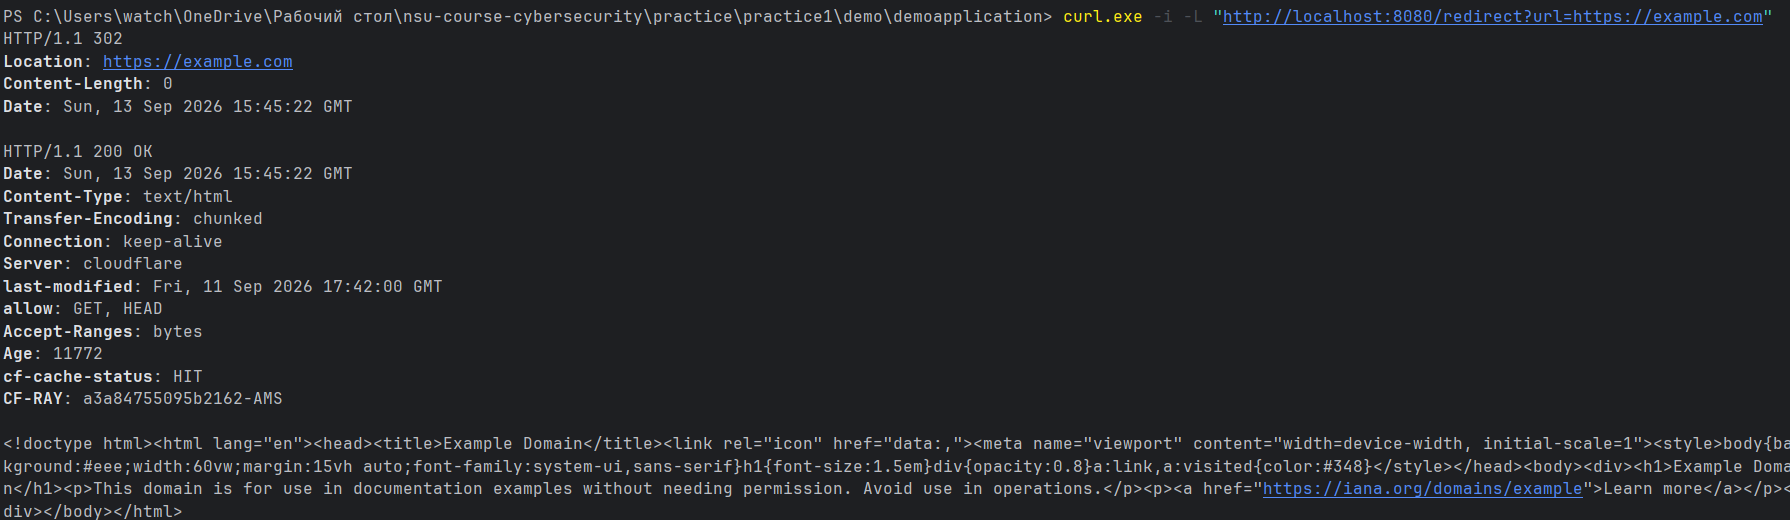
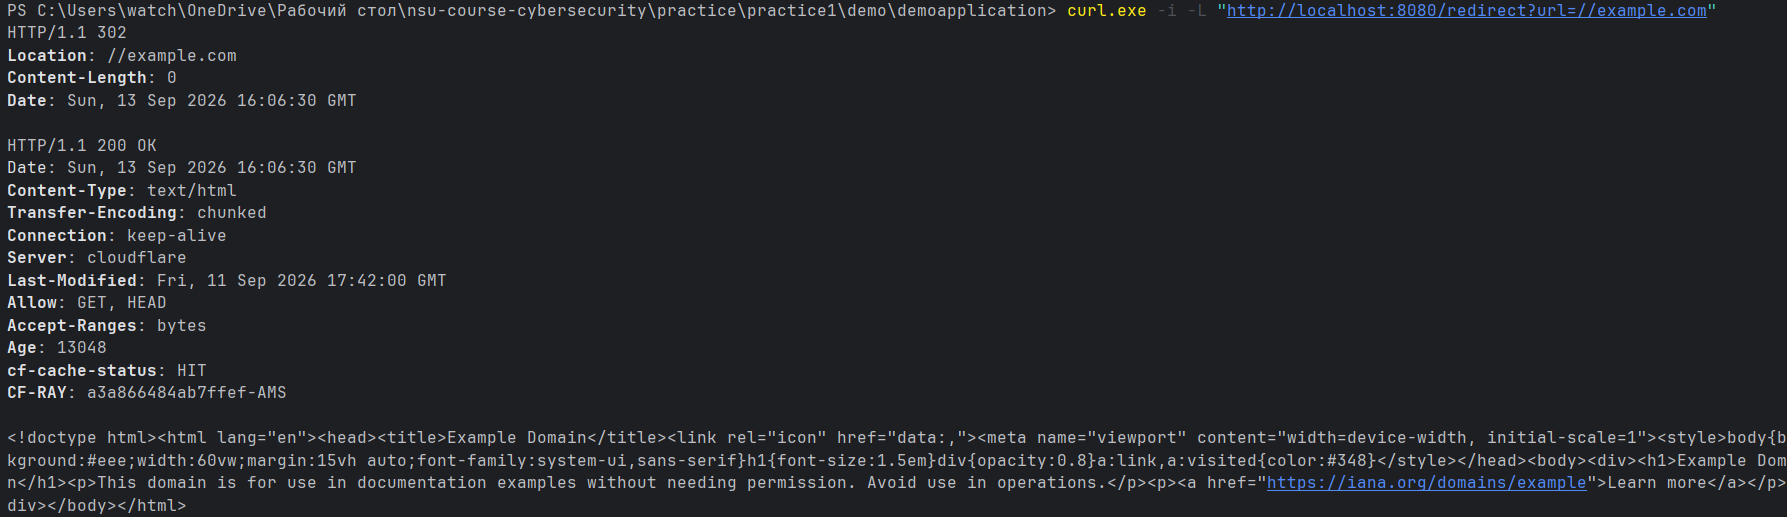
Complete practice 1

Changed region(s): [[0.0, 0.8356, 1.0, 1.0], [0.0, 0.0, 0.9849, 0.2166], [0.0, 0.2476, 0.2462, 0.7737]]

diff --git a/practice/practice1/demo/demoapplication/src/main/java/nsu/security/demoapplication/controller/FileController.java b/practice/practice1/demo/demoapplication/src/main/java/nsu/security/demoapplication/controller/FileController.java
@@ -67,11 +67,18 @@ public class FileController {
         return ResponseEntity.ok("Файл сохранён: " + destination);
     }
 
-    @GetMapping("/redirect")
-    public ResponseEntity<Void> redirect(@RequestParam String url) {
+    @GetMapping("/sredirect")
+    public ResponseEntity<Void> safeRedirect(@RequestParam String url) {
         if (!url.startsWith("/") || url.startsWith("//")) {
             return ResponseEntity.badRequest().build();
         }
+        return ResponseEntity
+                .status(HttpStatus.FOUND)
+                .location(URI.create(url))
+                .build();
+    }
+    @GetMapping("/redirect")
+    public ResponseEntity<Void> redirect(@RequestParam String url) {
         return ResponseEntity
                 .status(HttpStatus.FOUND)
                 .location(URI.create(url))
